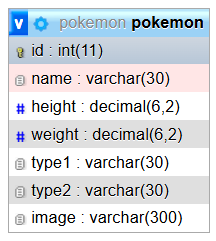
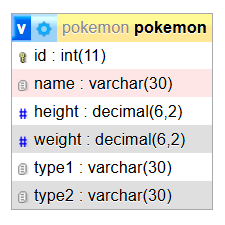
removed image field from Pokemon table, updated API

diff --git a/pokedex-api/src/pokemon/pokemon-dao.ts b/pokedex-api/src/pokemon/pokemon-dao.ts
@@ -1,8 +1,6 @@
 import { execute } from "../db";
-
 import { queries } from "./pokemon-queries";
-
-import { Pokemon } from './pokemon';
+import { Pokemon } from '../../../models/pokemon';
 
 export const readAllPokemon = async () => {
     return execute<Pokemon[]>(queries.readAll, []);
@@ -16,12 +14,12 @@ export const createPokemon = async (pokemon: Pokemon) => {
     return execute<Object>(
         queries.create,
         [
+            pokemon.id.toString(),
             pokemon.name,
             pokemon.height.toString(),
             pokemon.weight.toString(),
             pokemon.type1,
             pokemon.type2,
-            pokemon.image
         ],
     );
 };
@@ -35,7 +33,6 @@ export const updatePokemon = async (pokemon: Pokemon) => {
             pokemon.weight.toString(),
             pokemon.type1,
             pokemon.type2,
-            pokemon.image,
             pokemon.id.toString()
         ],
     );

diff --git a/pokedex-api/src/pokemon/pokemon-queries.ts b/pokedex-api/src/pokemon/pokemon-queries.ts
@@ -4,11 +4,11 @@ export const queries = {
     readById:
         `SELECT * FROM pokemon WHERE id = ?`,
     create:
-        `INSERT INTO \`pokemon\` (\`id\`, \`name\`, \`height\`, \`weight\`, \`type1\`, \`type2\`, \`image\`)
-        VALUES (null, ?, ?, ?, ?, ?, ?)`,
+        `INSERT INTO \`pokemon\` (\`id\`, \`name\`, \`height\`, \`weight\`, \`type1\`, \`type2\`)
+        VALUES (?, ?, ?, ?, ?, ?)`,
     update:
         `UPDATE pokemon
-        SET name = ?, height = ?, weight = ?, type1 = ?, type2 = ?, image = ?
+        SET name = ?, height = ?, weight = ?, type1 = ?, type2 = ?
         WHERE id = ?`,
     delete:
         `DELETE FROM pokemon WHERE id = ?`,

diff --git a/pokedex-client-angular/src/app/pokemon-list/pokemon-list.component.ts b/pokedex-client-angular/src/app/pokemon-list/pokemon-list.component.ts
@@ -1,4 +1,5 @@
 import { Component } from '@angular/core';
+import { Pokemon } from '../../../../models/pokemon';
 
 @Component({
 	selector: 'app-pokemon-list',
@@ -8,4 +9,9 @@ import { Component } from '@angular/core';
 	styleUrl: './pokemon-list.component.css'
 })
 export class PokemonListComponent {
+	pokemon: Pokemon[];
+
+	constructor() {
+		this.pokemon = [];
+	}
 }

diff --git a/models/pokemon.ts b/models/pokemon.ts
@@ -5,5 +5,4 @@ export interface Pokemon {
     weight: number,
     type1: string,
     type2: string,
-    image: string,
 }
